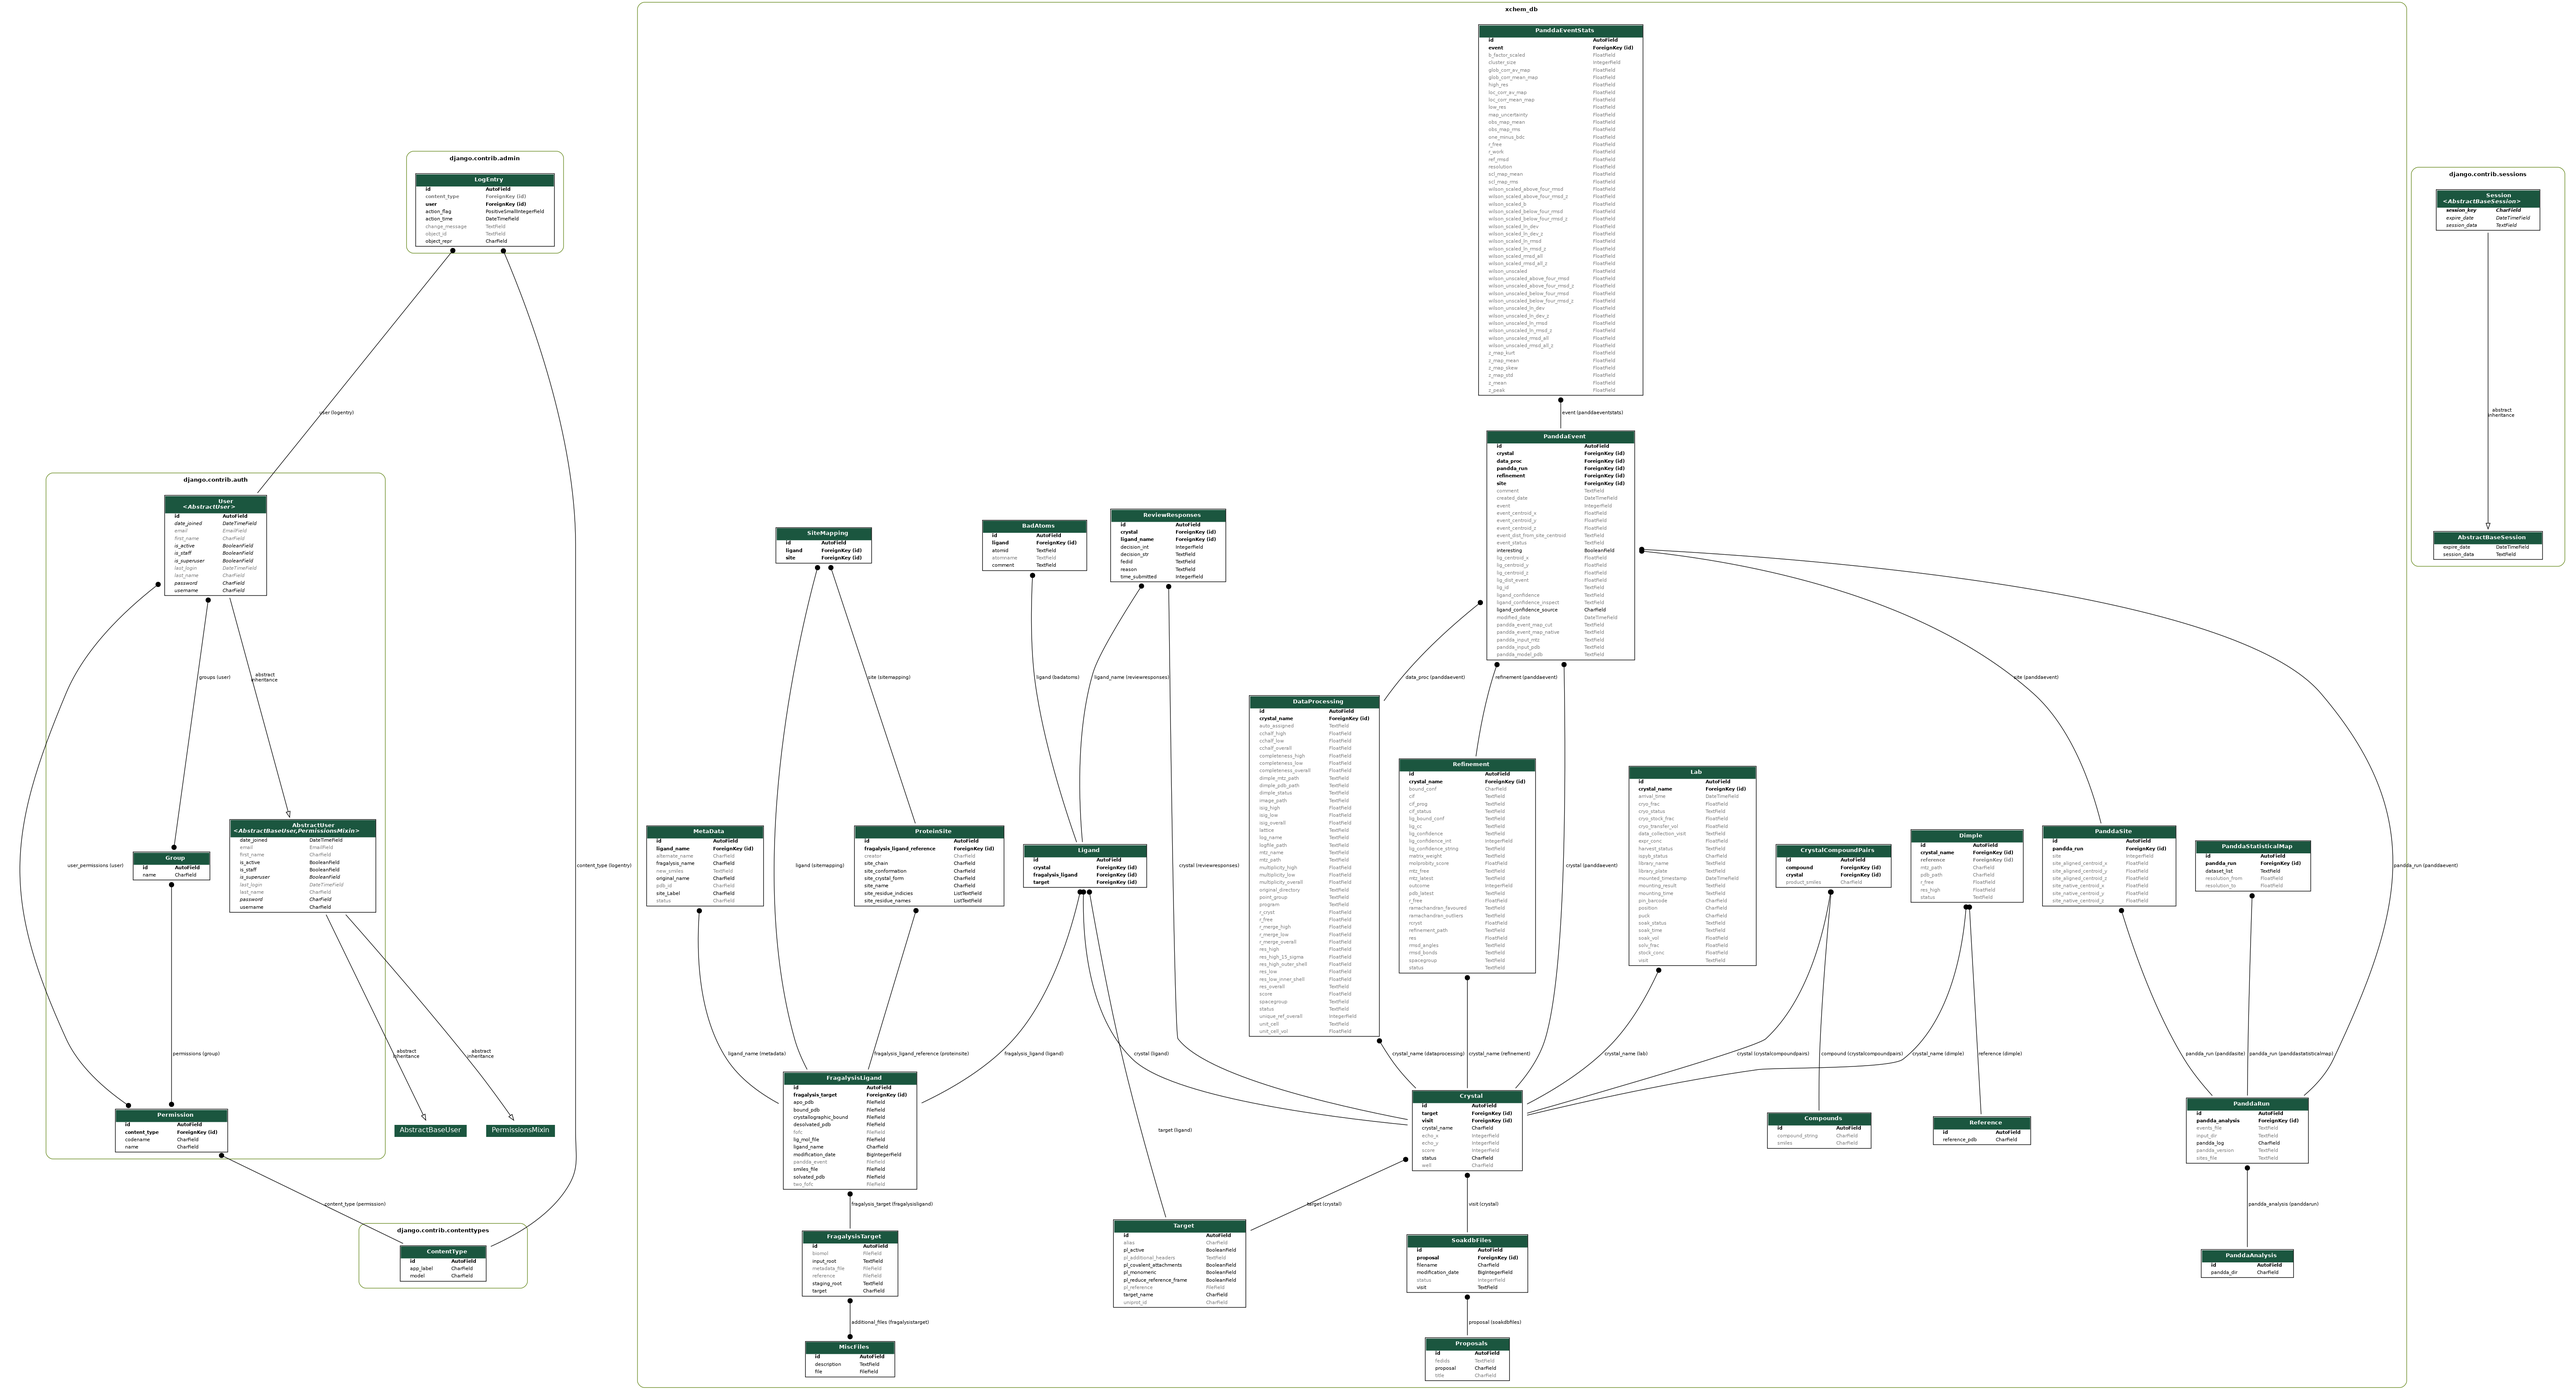
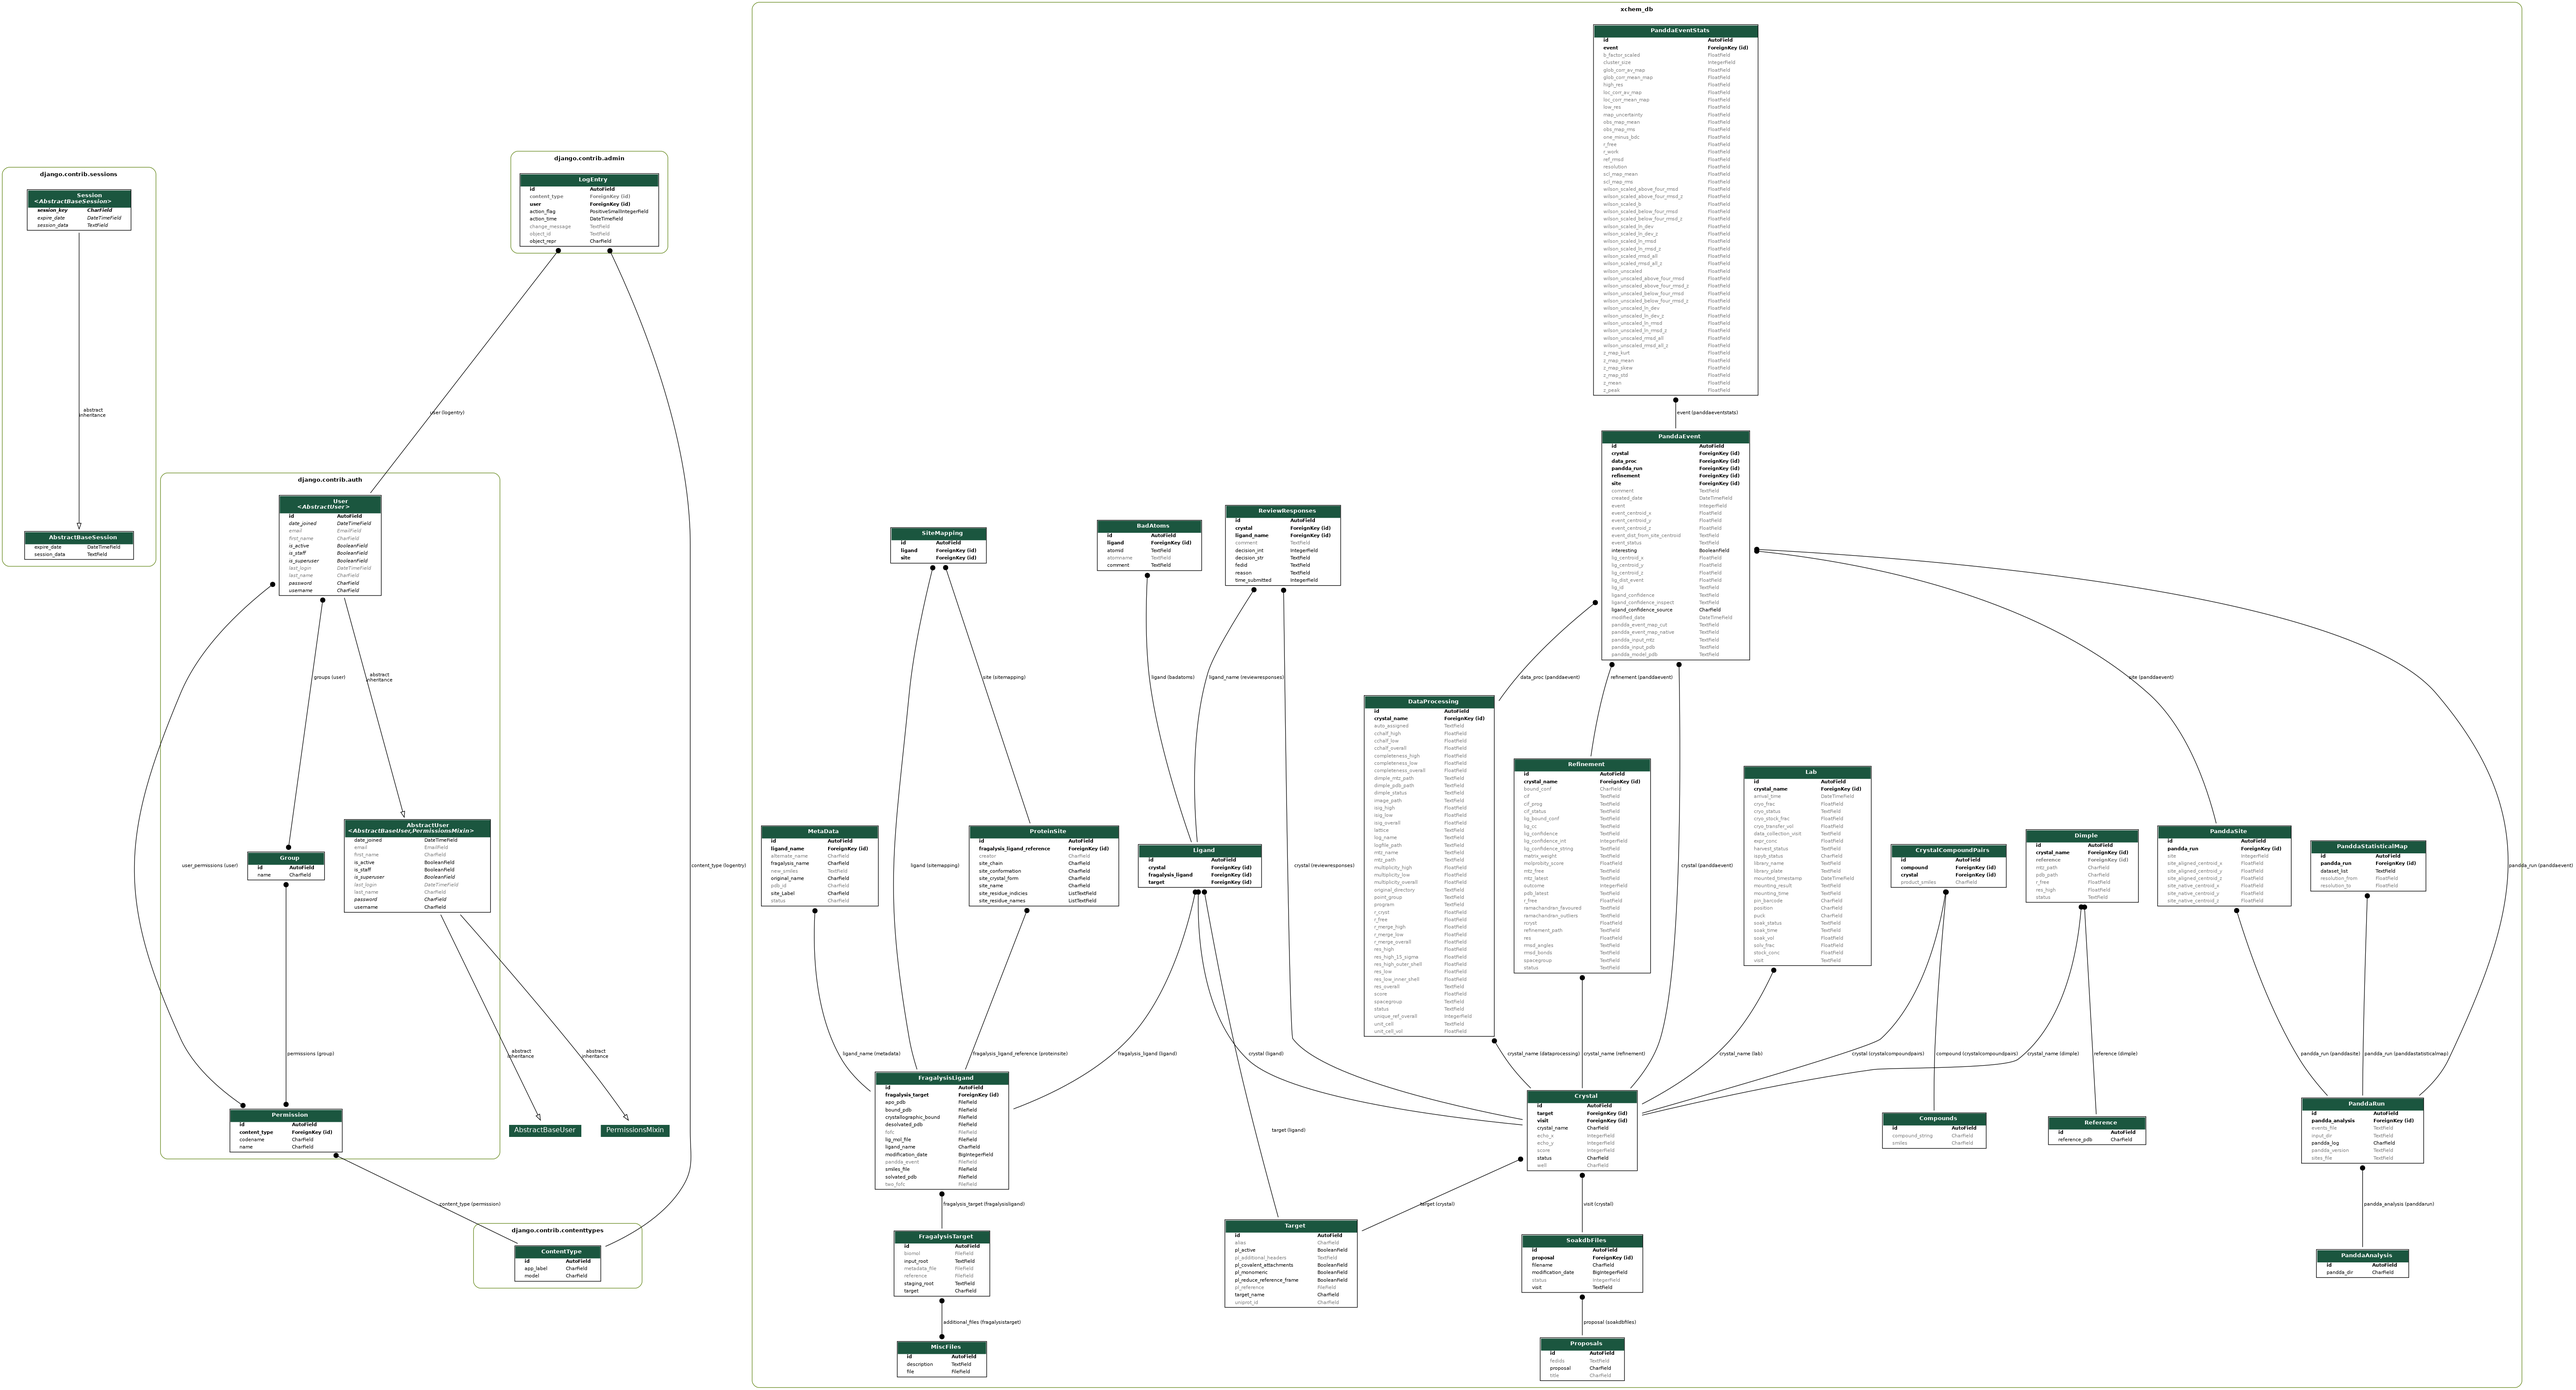
Auto-commit of new versions of migrations, SQL files & schema image

diff --git a/xchem_db/migrations/0002_reviewresponses_comment.py b/xchem_db/migrations/0002_reviewresponses_comment.py
@@ -1,0 +1,18 @@
+# Generated by Django 3.1.7 on 2021-11-29 12:58
+
+from django.db import migrations, models
+
+
+class Migration(migrations.Migration):
+
+    dependencies = [
+        ('xchem_db', '0001_initial'),
+    ]
+
+    operations = [
+        migrations.AddField(
+            model_name='reviewresponses',
+            name='comment',
+            field=models.TextField(blank=True, null=True),
+        ),
+    ]
